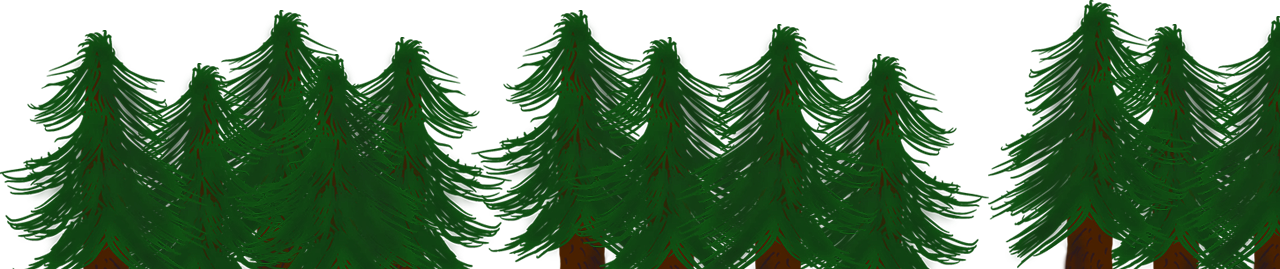
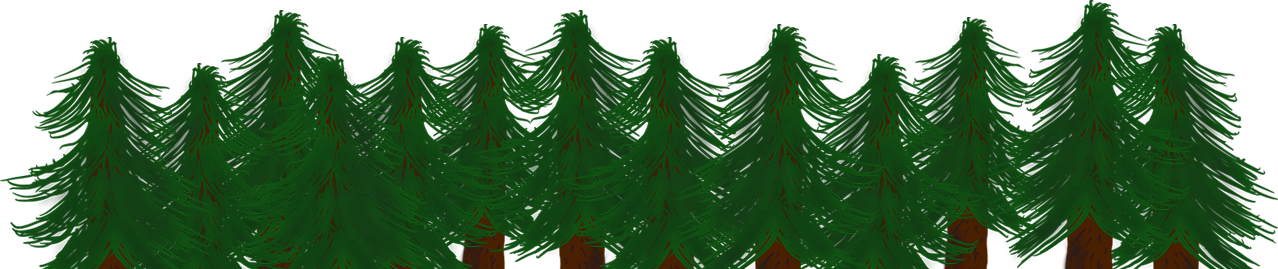
Fixes to layers

diff --git a/Components/Layout/WelcomeBackground.razor.css b/Components/Layout/WelcomeBackground.razor.css
@@ -5,6 +5,8 @@ div.welcome-background {
     z-index: -1;
     width: 100vw;
     height: 100vh;
+
+    background: linear-gradient(180deg, rgba(0,97,209,1) 0%, rgba(0,212,255,1) 47%, rgba(0,147,5,1) 100%); 
 }
 
 div.welcome-background__layer{
@@ -14,10 +16,7 @@ div.welcome-background__layer{
     flex-direction: row;
     
     overflow: hidden;
-}
-
-div.welcome-background__layer img:last-child {
-    transform: scaleX(-1);
+    position: absolute;
 }
 
 div.welcome-background__layer img {
@@ -25,46 +24,71 @@ div.welcome-background__layer img {
     animation-iteration-count: infinite;
     animation-timing-function: linear;
     position: relative;
+    min-width: 100vw;
 }
 
 div#first-layer { 
     bottom: 0px;
+    z-index: 6;
 }
 
 div#first-layer img {
-    animation-duration: 8s;
+    animation-duration: 6s;
 }
 
 div#second-layer { 
-    bottom: 20px;
+    bottom: 0px;
+    z-index: 5;
 }
 
 div#second-layer img {
-    animation-duration: 8s;
+    animation-duration: 10s;
 }
 
 div#third-layer { 
-    bottom: 40px;
+    bottom: 0px;
+    z-index: 4;
 }
 
 div#third-layer img {
-    animation-duration: 8s;
+    animation-duration: 14s;
 }
 
 div#fourth-layer { 
-    bottom: 60px;
+    bottom: 0px;
+    z-index: 3;
 }
 
 div#fourth-layer img {
-    animation-duration: 8s;
+    animation-duration: 18s;
 }
 
 div#fifth-layer { 
-    bottom: 80px;
+    bottom: 0px;
+    z-index: 2;
+    
 }
 
 div#fifth-layer img {
-    animation-duration: 8s;
+    animation-duration: 22s;
+}
+
+div#sixth-layer { 
+    top: 0px;
+    z-index: 7;
+}
+
+div#sixth-layer img {
+    animation-duration: 15s;
+}
+
+div#seventh-layer { 
+    top: 0px;
+    z-index: 1;
+}
+
+div#seventh-layer img {
+    animation-duration: 40s;
 }
 
 @keyframes slide {

diff --git a/Components/Pages/Welcome.razor.css b/Components/Pages/Welcome.razor.css
@@ -77,15 +77,15 @@ li:hover {
 
 @keyframes title-animation {
     0% {
-        font-size: 40pt;
+        font-size: 50pt;
         transform: rotate(-0.025turn);
     }
     50% {
-        font-size: 50pt;
+        font-size: 60pt;
         transform: rotate(0.025turn);
     }
     100% {
-        font-size: 40pt;
+        font-size: 50pt;
         transform: rotate(-0.025turn);
     }
 }

diff --git a/Program.cs b/Program.cs
@@ -48,7 +48,7 @@ window.SetContentSize(1280, 720);
 // Ukrywanie górnego menu
 window.SetMenuBarVisibility(false);
 // Ustawienie tytułu okna
-window.SetTitle("Projekt zaliczeniowy AiSD 2");
+window.SetTitle("Świat Płaszczaków");
 
 // Oczekiwanie na zakończenie okna Electron.
 app.WaitForShutdown();
